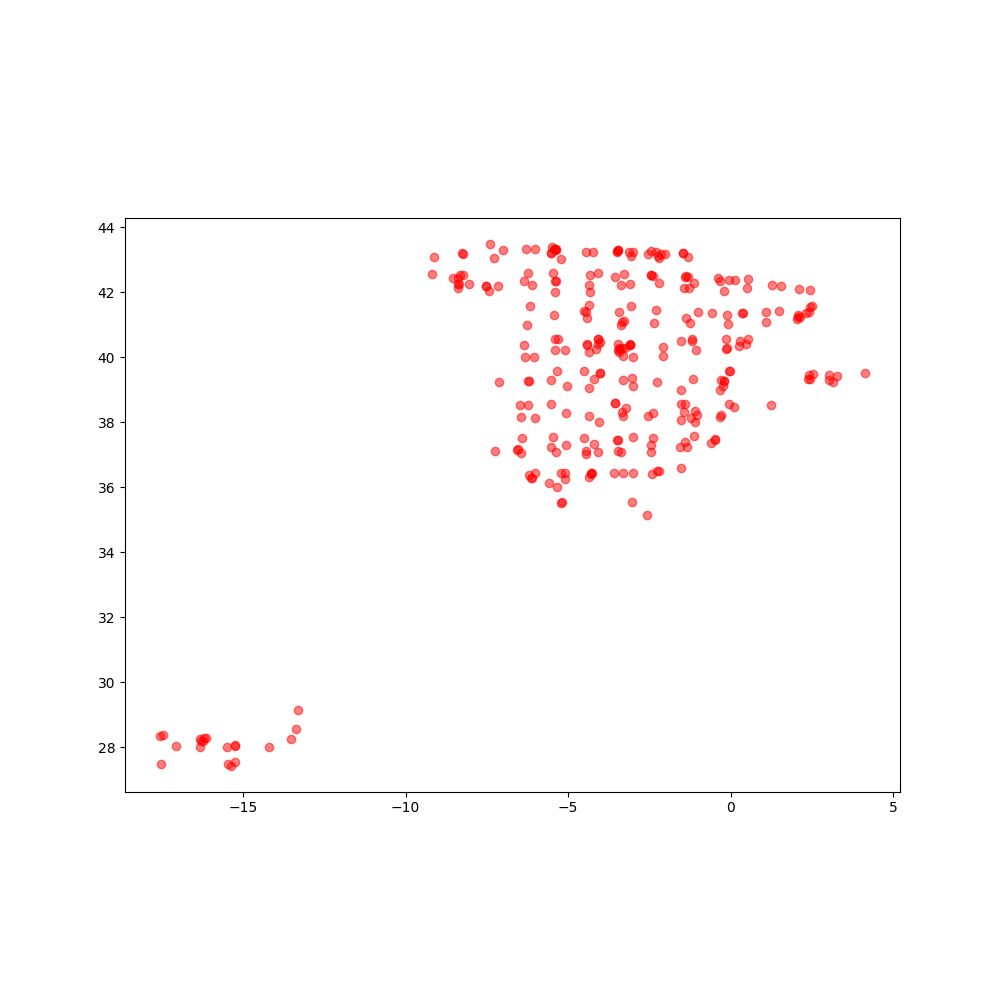
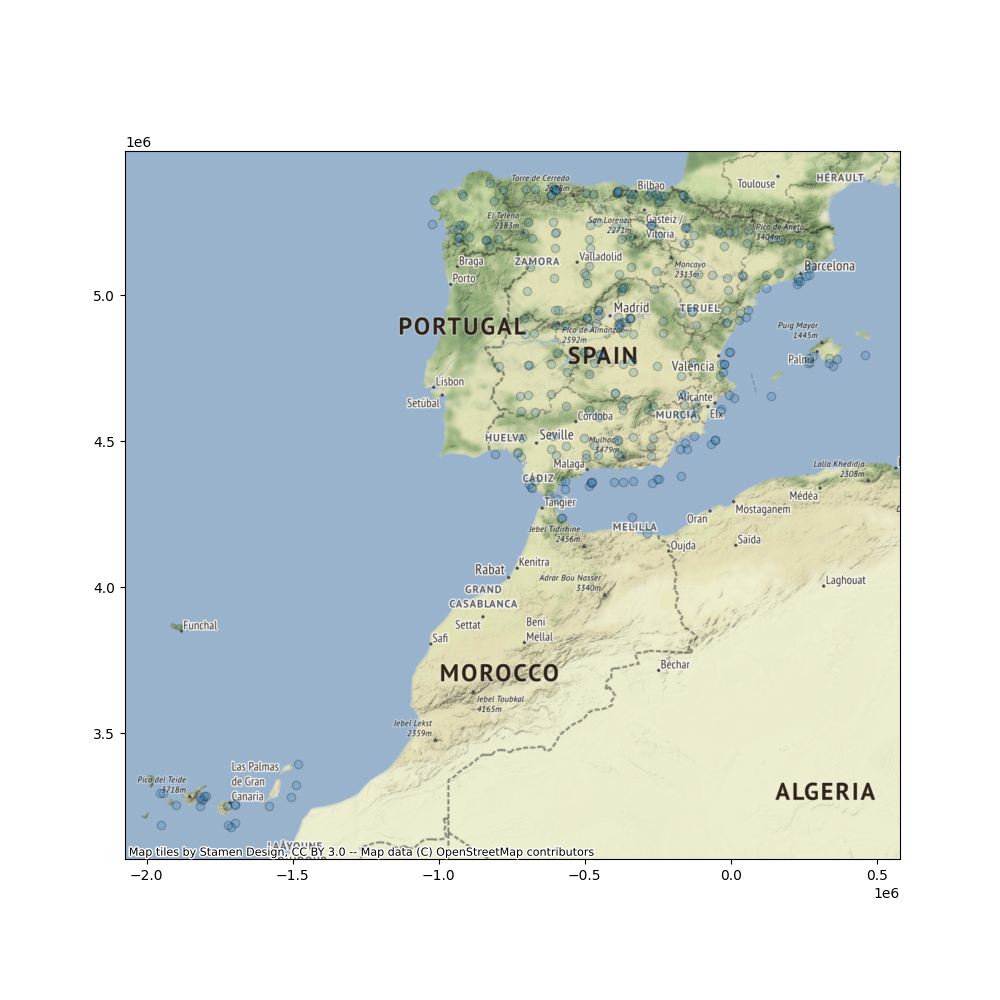
ultima

diff --git a/src/templates/home.html b/src/templates/home.html
@@ -121,37 +121,42 @@ function disp_message(arr,tipo,consulta) {
     <div class="w3-card-1 w3-sand">
         <h3>Datos</h3>
     </div>
-    
+   
+    <button type="button" onclick="carga_desc_datos()">load</button>
     <div id="description_db"></div>
     <br>
-    <button type="button" onclick="carga_desc_datos()">load</button>
     <img src="datos_graph" id="tubo_datos" alt="Proceso de Pronóstico de generación" > 
 </div>
 
 
 <div class="w3-container">
-    <h4>cluster</h4>
-    <div id="mapid"></div>
-    <button type="button" onclick="consulta_estaciones()">load</button>
+    <div class="w3-card-1 w3-sand">
+        <h4>Cluster</h4>
+    </div>
+
+<!--    <div id="mapid"></div>
+<button type="button" onclick="consulta_estaciones()">load</button>-->
+
 </div>
 
 
 <div class="w3-container">
-<h3>Pronóstico generación eólica</h3>
-<button type="button" onclick="carga_gen_eo()">load</button>
-<img src="g_eo_graph" id="g_eo_sent" alt="Pronóstico generación eólica" > 
-<div id="g_eo_div"></div>
+    <div class="w3-card-1 w3-sand">
+        <h3>Pronóstico generación eólica</h3>
+    </div>
+    <button type="button" onclick="carga_gen_eo()">load</button>
+    <img src="g_eo_graph" id="g_eo_sent" alt="Pronóstico generación eólica" > 
+    <div id="g_eo_div"></div>
 </div>
-
 
 <div class="w3-container">
-<h3>Pronóstico generación fotovoltaica</h3>
-<button type="button" onclick="carga_gen_fv()">load</button>
-<img src="g_fv_graph" id="g_fv_sent" alt="Pronóstico generación fotovoltaica" > 
-<div id="g_fv_div"></div>
+     <div class="w3-card-1 w3-sand">
+         <h3>Pronóstico generación fotovoltaica</h3>
+     </div>
+     <button type="button" onclick="carga_gen_fv()">load</button>
+     <img src="g_fv_graph" id="g_fv_sent" alt="Pronóstico generación fotovoltaica" > 
+     <div id="g_fv_div"></div>
 </div>
-
-
 
 </body>
 

diff --git a/src/model/cluster.py b/src/model/cluster.py
@@ -75,9 +75,16 @@ def make_winds():
 
     #Asigna cluster a las medidas de los últimas lecturas
     df_clima_est=df_estaciones.loc[df_estaciones['indicativo'].isin(list(clima_velmedia.columns))]
-    plt.scatter(df_clima_est['lon'],df_clima_est['lat'],c=df_clima_est['cluster'])
+    df=df_clima_est
+    df['lat']=df['lat'].div(10000)
+    df['lon']=df['lon'].div(10000)
+    gdf = geopandas.GeoDataFrame(
+            df, geometry=geopandas.points_from_xy(df.lon, df.lat),crs="EPSG:4326")
+    df = gdf.to_crs(epsg=3857)
+    ax = df.plot(figsize=(10, 10), alpha=0.5, edgecolor='k')
+    ctx.add_basemap(ax)
     plt.savefig('src/templates/mapa_estaciones_lec.png')
-    return True
+
     r2_vec=[]
     df_clima_est=df_clima_est.set_index('indicativo')
     for cluster in clusters:
@@ -102,5 +109,6 @@ def make_winds():
             cv_x_pred=cv_x_pred.rename(cv_x.columns[0])
             cv_x_pred.to_csv('data/pred_wind_'+str(cluster)+'.csv')
 
-
+    # Save in Monogodb
+    print('+++ mean MSE:',sum(r2_vec)/float(len(r2_vec)))
     return r2_vec

diff --git a/src/routes/descrip.py b/src/routes/descrip.py
@@ -1,5 +1,7 @@
 from src.app import app
+from src.connect_db import client_influx
 from src.connect_db import client_mongo
+from src.connect_db import client_df
 from src.get_data import describ_db
 from src.model import cluster
 from bson.json_util import dumps
@@ -25,6 +27,21 @@ def estationes():
     estaciones='{"estaciones":'+dumps(estaciones)+'}'
     estaciones_j=json.loads(estaciones)
     return estaciones_j
+
+@app.route("/lectura_aemet/")
+def lectura_aemet():
+    df=client_df
+    q_str=''' SELECT * FROM "Clima"  WHERE time > now()-3d'''
+    res=df.query(q_str)
+    points=res.items()
+    points=list(points)
+    clima=points[0][1]
+    col_velmedia=[ele for ele in clima.columns if ele.split('-')[0]=='velmedia']
+    clima_velmedia=clima[[*col_velmedia]]
+    clima_velmedia.shape
+    
+    return estaciones_j
+
 
 
 

diff --git a/src/routes/home.py b/src/routes/home.py
@@ -14,12 +14,12 @@ def style_present():
 def get_image_proceso():
     return send_file('templates/proceso.png', mimetype='image/png')
 
-@app.route("/m_estaciones")
-def get_image_route():
+@app.route("/datos_graph")
+def get_image_estaciones():
     return send_file('templates/mapa_estaciones.png', mimetype='image/png')
 
 
-@app.route("/m_estaciones_lec")
-def get_image_all_sentiments():
+@app.route("/cluster_graph")
+def get_image_cluster():
     return send_file('templates/mapa_estaciones_lec.png', mimetype='image/png')
 
